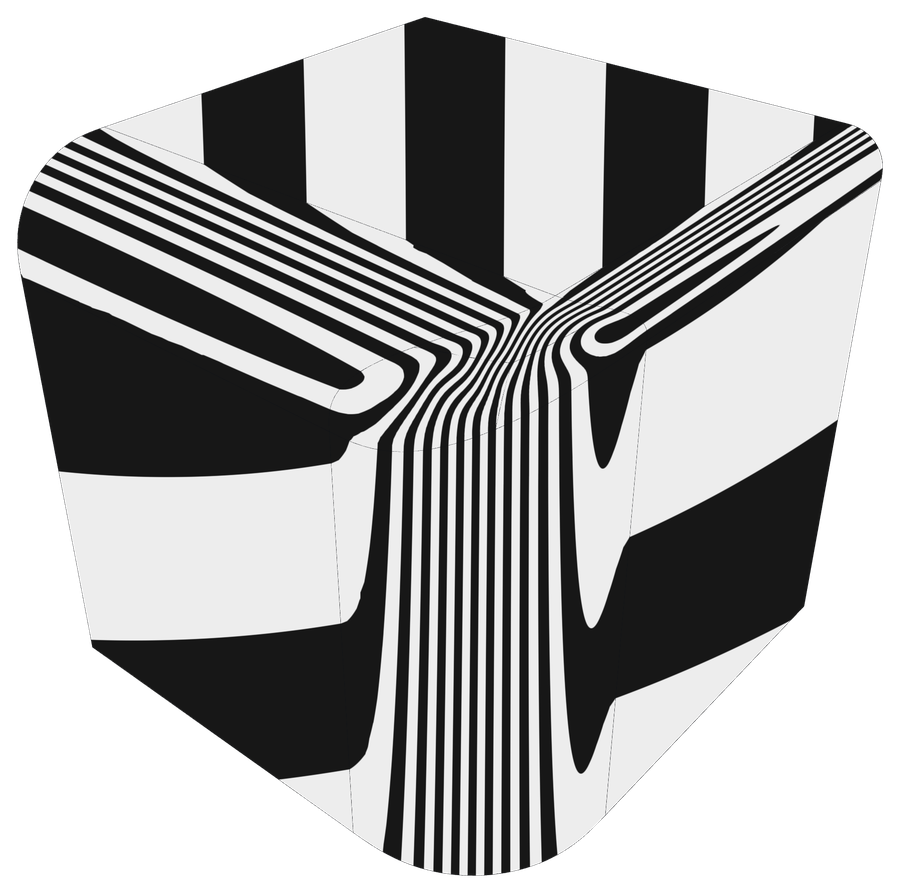
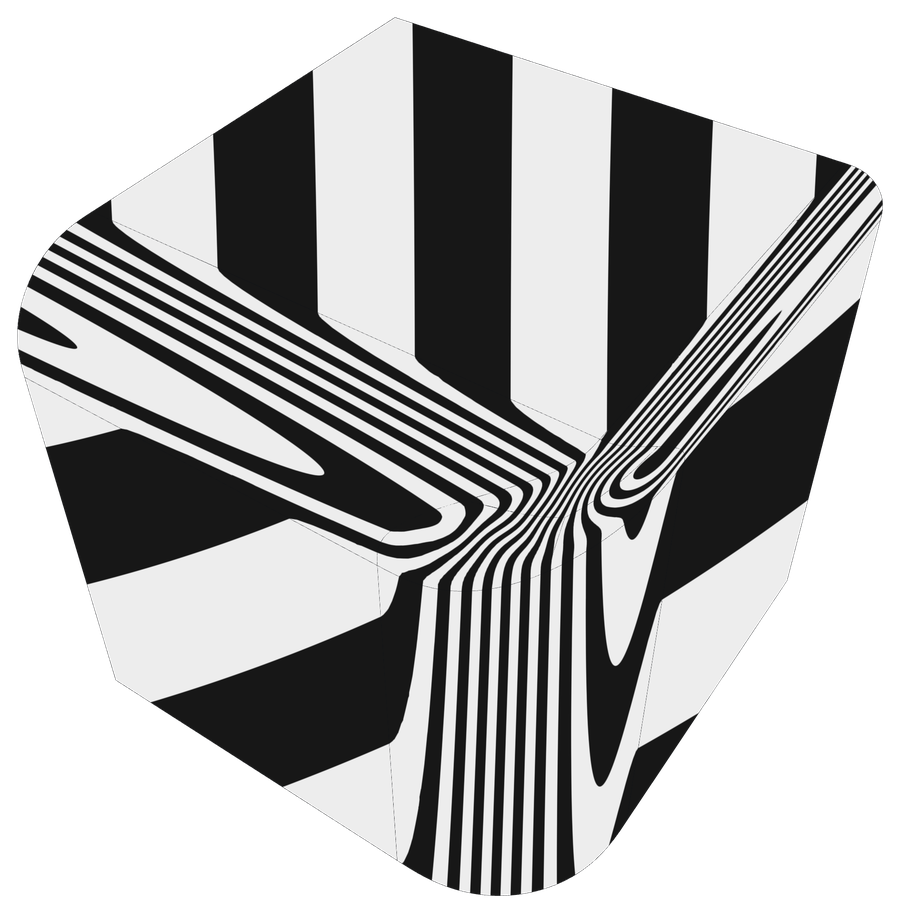
Lander: hero breaks between phrases, fresh renders, social links
Hero. The headline wrapped freely: "for" alone on a line at 320 px and
"things." alone from 414 to 480 px. It breaks only between "A CAD",
"kernel for", "everyone who" and "makes things." now (measured at 23
widths, 300 to 1920 px), and headings site-wide are balanced while
paragraphs avoid a lone last word (text-wrap).

Images. Every gallery and hero image re-rendered from popkern live as
it is today, and the social card regenerated from the new arm. The
fastener kit shows its nut threaded on the bolt (the old render had
the shank running into the nut's side). The renderer
(tools/render-gallery.mjs) now also clears the viewport's own graded
ground and frame, which it had started capturing. The hero caption
reads the arm's current count (1,198 features, 57 parts), image
width/height attributes match the files (three were stale), and the
bolt's alt text says the nut is threaded on.

Social links: GitHub and Discord in every page's nav; GitHub, Discord,
Reddit, Bluesky and X as an icon row in every page's footer; the
homepage's Community column and "Come and break it" card; "Join the
Discord" and "Follow along" in the support page's and launch post's
help lists, with a Discord button beside GitHub at the end of the post;
twitter:site @popkerndev on the pages with a share card. Bluesky and X
icons are their published marks; Reddit is drawn in the site's line
style. Assets re-stamped.

diff --git a/web/lander/index.html b/web/lander/index.html
@@ -8,14 +8,9 @@
 <link rel="canonical" href="https://popkern.dev/">
 
 <!--
-  BEFORE YOU ANNOUNCE - fill these in (search for "#TODO-"):
-    #TODO-x         X / Twitter profile URL
-    #TODO-discord   Discord invite URL
-    #TODO-bluesky   Bluesky (or Mastodon) profile URL
-  Unset links render with a small "?" marker so they are easy to spot. That
-  marker lives in the a[href^="#TODO"] rule in assets/css/site.css and goes
-  away on its own once the hrefs are real.
-  Also update the domain in the canonical and og: tags below if it is not
+  BEFORE YOU ANNOUNCE: unset links ("#TODO-...") render with a small "?"
+  marker so they are easy to spot (the a[href^="#TODO"] rule in
+  assets/css/site.css). Also update the domain in the canonical and og: tags below if it is not
   popkern.dev, and in sitemap.xml, robots.txt and blog/feed.xml.
 -->
 
@@ -25,12 +20,13 @@
 <meta property="og:description" content="A free, open-source CAD kernel in Rust. Try it in your browser, install it in one line, and come break it.">
 <meta property="og:image" content="https://popkern.dev/assets/img/og.png">
 <meta name="twitter:card" content="summary_large_image">
+<meta name="twitter:site" content="@popkerndev">
 
 <link rel="icon" href="assets/img/favicon.svg?v=3c8cd3cc" type="image/svg+xml">
 <link rel="preconnect" href="https://fonts.googleapis.com">
 <link rel="preconnect" href="https://fonts.gstatic.com" crossorigin>
 <link rel="stylesheet" href="https://fonts.googleapis.com/css2?family=Inter:wght@400;500;600;700&family=JetBrains+Mono:wght@400;500&display=swap">
-<link rel="stylesheet" href="assets/css/site.css?v=f511bd3d">
+<link rel="stylesheet" href="assets/css/site.css?v=269cefcb">
 </head>
 <body>
 
@@ -41,6 +37,9 @@
   <symbol id="i-github" viewBox="0 0 24 24"><path d="M12 .5C5.73.5.66 5.58.66 11.85c0 5.01 3.25 9.26 7.75 10.76.57.1.78-.25.78-.55l-.02-1.94c-3.15.69-3.82-1.52-3.82-1.52-.52-1.32-1.26-1.67-1.26-1.67-1.03-.7.08-.69.08-.69 1.14.08 1.74 1.17 1.74 1.17 1.01 1.74 2.66 1.24 3.31.95.1-.74.4-1.24.72-1.53-2.52-.29-5.16-1.26-5.16-5.6 0-1.24.44-2.25 1.17-3.04-.12-.29-.51-1.44.11-3 0 0 .95-.31 3.12 1.16a10.8 10.8 0 0 1 5.68 0c2.17-1.47 3.12-1.16 3.12-1.16.62 1.56.23 2.71.11 3 .73.79 1.17 1.8 1.17 3.04 0 4.35-2.65 5.31-5.17 5.59.41.35.77 1.05.77 2.12l-.01 3.14c0 .3.2.66.79.55 4.5-1.5 7.74-5.75 7.74-10.76C23.34 5.58 18.27.5 12 .5Z"/></symbol>
   <symbol id="i-discord" viewBox="0 0 24 24"><path d="M20.32 4.9A19.8 19.8 0 0 0 15.43 3.4a13.9 13.9 0 0 0-.63 1.28 18.3 18.3 0 0 0-5.6 0c-.19-.44-.44-.98-.64-1.28A19.7 19.7 0 0 0 3.67 4.9C.57 9.52-.27 14.02.15 18.46a19.9 19.9 0 0 0 6 3.04c.49-.66.92-1.36 1.29-2.1-.71-.26-1.38-.59-2.02-.97.17-.13.34-.26.5-.4a14.2 14.2 0 0 0 12.16 0c.16.14.33.27.5.4-.64.38-1.32.71-2.03.98.37.73.8 1.44 1.29 2.09a19.8 19.8 0 0 0 6.01-3.04c.5-5.15-.85-9.6-3.53-13.56ZM8.02 15.73c-1.18 0-2.15-1.09-2.15-2.42s.94-2.42 2.15-2.42c1.2 0 2.17 1.09 2.15 2.42 0 1.33-.95 2.42-2.15 2.42Zm7.95 0c-1.18 0-2.15-1.09-2.15-2.42s.94-2.42 2.15-2.42c1.2 0 2.17 1.09 2.15 2.42 0 1.33-.94 2.42-2.15 2.42Z"/></symbol>
   <symbol id="i-arrow" viewBox="0 0 24 24"><path d="M5 12h13m-5-6 6 6-6 6" fill="none" stroke="currentColor" stroke-width="2" stroke-linecap="round" stroke-linejoin="round"/></symbol>
+  <symbol id="i-bluesky" viewBox="0 0 24 24"><path d="M12 10.8c-1.087-2.114-4.046-6.053-6.798-7.995C2.566.944 1.561 1.266.902 1.565.139 1.908 0 3.08 0 3.768c0 .69.378 5.65.624 6.479.815 2.736 3.713 3.66 6.383 3.364.136-.02.275-.039.415-.056-.138.022-.276.04-.415.056-3.912.58-7.387 2.005-2.83 7.078 5.013 5.19 6.87-1.113 7.823-4.308.953 3.195 2.05 9.271 7.733 4.308 4.267-4.308 1.172-6.498-2.74-7.078a8.741 8.741 0 0 1-.415-.056c.14.017.279.036.415.056 2.67.297 5.568-.628 6.383-3.364.246-.828.624-5.79.624-6.478 0-.69-.139-1.861-.902-2.206-.659-.298-1.664-.62-4.3 1.24C16.046 4.748 13.087 8.687 12 10.8Z"/></symbol>
+  <symbol id="i-x" viewBox="0 0 24 24"><path d="M18.901 1.153h3.68l-8.04 9.19L24 22.846h-7.406l-5.8-7.584-6.638 7.584H.474l8.6-9.83L0 1.154h7.594l5.243 6.932ZM17.61 20.644h2.039L6.486 3.24H4.298Z"/></symbol>
+  <symbol id="i-reddit" viewBox="0 0 24 24"><g fill="none" stroke="currentColor" stroke-width="1.8" stroke-linecap="round" stroke-linejoin="round"><ellipse cx="12" cy="14.5" rx="8.5" ry="6"/><path d="M12 8.5l1.3-5.3 4.2 1"/><circle cx="19" cy="4.4" r="1.5"/><circle cx="3.9" cy="10.4" r="1.7"/><circle cx="20.1" cy="10.4" r="1.7"/><path d="M8.8 17.2c2 1.3 4.4 1.3 6.4 0"/></g><circle cx="9" cy="13.6" r="1.25"/><circle cx="15" cy="13.6" r="1.25"/></symbol>
 </svg>
 
 <!-- ===================== Nav ===================== -->
@@ -60,6 +59,7 @@
       <a href="blog/" data-wide>Blog</a>
       <span class="nav-icons">
         <a class="icon-link" href="https://github.com/popkern-dev/popkern" aria-label="popkern on GitHub"><svg><use href="#i-github"/></svg></a>
+        <a class="icon-link" href="https://discord.gg/38p9xBBwff" aria-label="popkern on Discord"><svg><use href="#i-discord"/></svg></a>
       </span>
       <a class="nav-cta" href="live/">Try it now!</a>
     </nav>
@@ -72,7 +72,7 @@
 <section class="hero">
   <div class="container hero-grid">
     <div>
-      <h1>A CAD kernel for<br><span class="grad">everyone who makes things.</span></h1>
+      <h1>A CAD <span class="nowrap">kernel for</span><br><span class="grad"><span class="nowrap">everyone who</span> <span class="nowrap">makes things.</span></span></h1>
 
       <p class="hero-sub">
         popkern is the geometry engine that sits underneath CAD: the part that
@@ -94,9 +94,9 @@
     </div>
 
     <figure class="hero-art">
-      <img src="assets/img/six-axis-arm.png?v=592ca7e6" width="1400" height="1200"
+      <img src="assets/img/six-axis-arm.png?v=bf3acaca" width="1400" height="1200"
            alt="A six-axis robot arm: a white base and shoulder, grey tube links, finned cycloidal joint housings at every axis, and an orange-jawed gripper on the tool flange.">
-      <figcaption>A six-axis arm in <a href="live/">popkern live</a>: 1,326 features, 57 parts</figcaption>
+      <figcaption>A six-axis arm in <a href="live/">popkern live</a>: 1,198 features, 57 parts</figcaption>
     </figure>
   </div>
 </section>
@@ -117,17 +117,17 @@
 
     <div class="gallery">
       <figure class="shot">
-        <div class="shot-img"><img src="assets/img/cycloidal-joints.png?v=12725cf0" alt="Three cycloidal joint modules of decreasing size, each a finned grey housing with a blue output flange." loading="lazy" width="900" height="668"></div>
+        <div class="shot-img"><img src="assets/img/cycloidal-joints.png?v=1e17d38e" alt="Three cycloidal joint modules of decreasing size, each a finned grey housing with a blue output flange." loading="lazy" width="900" height="668"></div>
         <figcaption><b>Cycloidal joints</b>The arm's three joint sizes, each a motor driving a cycloidal reducer: discs, ring pins, output pins and a cross-roller bearing.</figcaption>
       </figure>
 
       <figure class="shot">
-        <div class="shot-img"><img src="assets/img/planetary-gearbox.png?v=d53933f9" alt="A planetary gear set seen from above: an orange ring gear, green planets, a blue sun and a purple carrier." loading="lazy" width="900" height="784"></div>
+        <div class="shot-img"><img src="assets/img/planetary-gearbox.png?v=ab55b206" alt="A planetary gear set seen from above: an orange ring gear, green planets, a blue sun and a purple carrier." loading="lazy" width="900" height="784"></div>
         <figcaption><b>Planetary gearbox</b>A 4:1 set as an assembly, one color per part. Every involute tooth is computed in the script.</figcaption>
       </figure>
 
       <figure class="shot">
-        <div class="shot-img"><img src="assets/img/fastener-kit.png?v=a7d31b74" alt="A hex bolt and its nut, a socket-head cap screw and a countersunk screw, each in its own color, all with modeled threads." loading="lazy" width="900" height="762"></div>
+        <div class="shot-img"><img src="assets/img/fastener-kit.png?v=4bf35148" alt="A hex bolt with its nut threaded on, a socket-head cap screw and a countersunk screw, each in its own color, all with modeled threads." loading="lazy" width="900" height="917"></div>
         <figcaption><b>Real threads</b>An M6 bolt and nut, a cap screw and a countersunk screw: modeled ISO threads, not textures.</figcaption>
       </figure>
 
@@ -137,12 +137,12 @@
       </figure>
 
       <figure class="shot">
-        <div class="shot-img"><img src="assets/img/zebra-corner.png?v=65353874" alt="A rounded block corner in black and white zebra stripes that bend smoothly through the corner." loading="lazy" width="900" height="893"></div>
+        <div class="shot-img"><img src="assets/img/zebra-corner.png?v=6e9fbc7c" alt="A rounded block corner in black and white zebra stripes that bend smoothly through the corner." loading="lazy" width="900" height="913"></div>
         <figcaption><b>Smooth where rounds meet</b>Three different radii closing on one corner, in zebra view: the stripes flow through unbroken, certified curvature-continuous.</figcaption>
       </figure>
 
       <figure class="shot">
-        <div class="shot-img"><img src="assets/img/coil-springs.png?v=6e11e4bc" alt="Three coil springs: a compression spring, a tapered spring and a left-hand spring." loading="lazy" width="900" height="1053"></div>
+        <div class="shot-img"><img src="assets/img/coil-springs.png?v=fb557290" alt="Three coil springs: a compression spring, a tapered spring and a left-hand spring." loading="lazy" width="900" height="1054"></div>
         <figcaption><b>Three springs, one verb</b>Compression, tapered and left-hand springs, each swept along an exact helix.</figcaption>
       </figure>
     </div>
@@ -253,7 +253,7 @@ m</code></pre>
       <a class="btn btn-primary" href="https://github.com/popkern-dev/popkern">
         <svg><use href="#i-github"/></svg> popkern on GitHub
       </a>
-      <a class="btn btn-ghost" href="#TODO-discord">
+      <a class="btn btn-ghost" href="https://discord.gg/38p9xBBwff">
         <svg><use href="#i-discord"/></svg> Join the Discord
       </a>
     </div>
@@ -275,6 +275,7 @@ m</code></pre>
           popkern
         </a>
         <p>A free, open CAD kernel in Rust, for everyone who makes things.</p>
+        <span class="footer-social"><a class="icon-link" href="https://github.com/popkern-dev/popkern" aria-label="popkern on GitHub"><svg><use href="#i-github"/></svg></a><a class="icon-link" href="https://discord.gg/38p9xBBwff" aria-label="popkern on Discord"><svg><use href="#i-discord"/></svg></a><a class="icon-link" href="https://www.reddit.com/user/popkerndev" aria-label="popkern on Reddit"><svg><use href="#i-reddit"/></svg></a><a class="icon-link" href="https://bsky.app/profile/popkerndev.bsky.social" aria-label="popkern on Bluesky"><svg><use href="#i-bluesky"/></svg></a><a class="icon-link" href="https://x.com/popkerndev" aria-label="popkern on X"><svg><use href="#i-x"/></svg></a></span>
       </div>
 
       <div>
@@ -301,9 +302,10 @@ m</code></pre>
         <h4>Community</h4>
         <ul>
           <li><a href="https://github.com/popkern-dev/popkern/issues">Issues</a></li>
-          <li><a href="#TODO-discord">Discord</a></li>
-          <li><a href="#TODO-bluesky">Bluesky</a></li>
-          <li><a href="#TODO-x">X / Twitter</a></li>
+          <li><a href="https://discord.gg/38p9xBBwff">Discord</a></li>
+          <li><a href="https://www.reddit.com/user/popkerndev">Reddit</a></li>
+          <li><a href="https://bsky.app/profile/popkerndev.bsky.social">Bluesky</a></li>
+          <li><a href="https://x.com/popkerndev">X / Twitter</a></li>
         </ul>
       </div>
     </div>

diff --git a/web/lander/blog/announcing-popkern.html b/web/lander/blog/announcing-popkern.html
@@ -11,16 +11,21 @@
 <meta property="og:description" content="A boundary-representation CAD kernel in Rust, written entirely by agents, and free for everyone.">
 <meta property="og:image" content="https://popkern.dev/assets/img/og.png">
 <meta name="twitter:card" content="summary_large_image">
+<meta name="twitter:site" content="@popkerndev">
 <link rel="preconnect" href="https://fonts.googleapis.com">
 <link rel="preconnect" href="https://fonts.gstatic.com" crossorigin>
 <link rel="stylesheet" href="https://fonts.googleapis.com/css2?family=Inter:wght@400;500;600;700&family=JetBrains+Mono:wght@400;500&display=swap">
-<link rel="stylesheet" href="../assets/css/site.css?v=f511bd3d">
+<link rel="stylesheet" href="../assets/css/site.css?v=269cefcb">
 </head>
 <body>
 <a class="skip" href="#main">Skip to content</a>
 
 <svg width="0" height="0" style="position:absolute" aria-hidden="true" focusable="false">
   <symbol id="i-github" viewBox="0 0 24 24"><path d="M12 .5C5.73.5.66 5.58.66 11.85c0 5.01 3.25 9.26 7.75 10.76.57.1.78-.25.78-.55l-.02-1.94c-3.15.69-3.82-1.52-3.82-1.52-.52-1.32-1.26-1.67-1.26-1.67-1.03-.7.08-.69.08-.69 1.14.08 1.74 1.17 1.74 1.17 1.01 1.74 2.66 1.24 3.31.95.1-.74.4-1.24.72-1.53-2.52-.29-5.16-1.26-5.16-5.6 0-1.24.44-2.25 1.17-3.04-.12-.29-.51-1.44.11-3 0 0 .95-.31 3.12 1.16a10.8 10.8 0 0 1 5.68 0c2.17-1.47 3.12-1.16 3.12-1.16.62 1.56.23 2.71.11 3 .73.79 1.17 1.8 1.17 3.04 0 4.35-2.65 5.31-5.17 5.59.41.35.77 1.05.77 2.12l-.01 3.14c0 .3.2.66.79.55 4.5-1.5 7.74-5.75 7.74-10.76C23.34 5.58 18.27.5 12 .5Z"/></symbol>
+  <symbol id="i-discord" viewBox="0 0 24 24"><path d="M20.32 4.9A19.8 19.8 0 0 0 15.43 3.4a13.9 13.9 0 0 0-.63 1.28 18.3 18.3 0 0 0-5.6 0c-.19-.44-.44-.98-.64-1.28A19.7 19.7 0 0 0 3.67 4.9C.57 9.52-.27 14.02.15 18.46a19.9 19.9 0 0 0 6 3.04c.49-.66.92-1.36 1.29-2.1-.71-.26-1.38-.59-2.02-.97.17-.13.34-.26.5-.4a14.2 14.2 0 0 0 12.16 0c.16.14.33.27.5.4-.64.38-1.32.71-2.03.98.37.73.8 1.44 1.29 2.09a19.8 19.8 0 0 0 6.01-3.04c.5-5.15-.85-9.6-3.53-13.56ZM8.02 15.73c-1.18 0-2.15-1.09-2.15-2.42s.94-2.42 2.15-2.42c1.2 0 2.17 1.09 2.15 2.42 0 1.33-.95 2.42-2.15 2.42Zm7.95 0c-1.18 0-2.15-1.09-2.15-2.42s.94-2.42 2.15-2.42c1.2 0 2.17 1.09 2.15 2.42 0 1.33-.94 2.42-2.15 2.42Z"/></symbol>
+  <symbol id="i-bluesky" viewBox="0 0 24 24"><path d="M12 10.8c-1.087-2.114-4.046-6.053-6.798-7.995C2.566.944 1.561 1.266.902 1.565.139 1.908 0 3.08 0 3.768c0 .69.378 5.65.624 6.479.815 2.736 3.713 3.66 6.383 3.364.136-.02.275-.039.415-.056-.138.022-.276.04-.415.056-3.912.58-7.387 2.005-2.83 7.078 5.013 5.19 6.87-1.113 7.823-4.308.953 3.195 2.05 9.271 7.733 4.308 4.267-4.308 1.172-6.498-2.74-7.078a8.741 8.741 0 0 1-.415-.056c.14.017.279.036.415.056 2.67.297 5.568-.628 6.383-3.364.246-.828.624-5.79.624-6.478 0-.69-.139-1.861-.902-2.206-.659-.298-1.664-.62-4.3 1.24C16.046 4.748 13.087 8.687 12 10.8Z"/></symbol>
+  <symbol id="i-x" viewBox="0 0 24 24"><path d="M18.901 1.153h3.68l-8.04 9.19L24 22.846h-7.406l-5.8-7.584-6.638 7.584H.474l8.6-9.83L0 1.154h7.594l5.243 6.932ZM17.61 20.644h2.039L6.486 3.24H4.298Z"/></symbol>
+  <symbol id="i-reddit" viewBox="0 0 24 24"><g fill="none" stroke="currentColor" stroke-width="1.8" stroke-linecap="round" stroke-linejoin="round"><ellipse cx="12" cy="14.5" rx="8.5" ry="6"/><path d="M12 8.5l1.3-5.3 4.2 1"/><circle cx="19" cy="4.4" r="1.5"/><circle cx="3.9" cy="10.4" r="1.7"/><circle cx="20.1" cy="10.4" r="1.7"/><path d="M8.8 17.2c2 1.3 4.4 1.3 6.4 0"/></g><circle cx="9" cy="13.6" r="1.25"/><circle cx="15" cy="13.6" r="1.25"/></symbol>
 </svg>
 
 <header class="nav">
@@ -38,6 +43,7 @@
       <a href="./" data-wide>Blog</a>
       <span class="nav-icons">
         <a class="icon-link" href="https://github.com/popkern-dev/popkern" aria-label="popkern on GitHub"><svg><use href="#i-github"/></svg></a>
+        <a class="icon-link" href="https://discord.gg/38p9xBBwff" aria-label="popkern on Discord"><svg><use href="#i-discord"/></svg></a>
       </span>
       <a class="nav-cta" href="../live/">Try it now!</a>
     </nav>
@@ -64,6 +70,8 @@
             <li><b><a href="../live/">Use it.</a></b> Build a part, then tell people it exists.</li>
             <li><b>Break it.</b> If popkern can't do it, we'll fix it!</li>
             <li><b><a href="../support/">Chip in.</a></b> Help me cover my costs.</li>
+            <li><b><a href="https://discord.gg/38p9xBBwff">Join the Discord.</a></b> Come say hi and show us what you build.</li>
+            <li><b>Follow along.</b> On <a href="https://bsky.app/profile/popkerndev.bsky.social">Bluesky</a>, <a href="https://x.com/popkerndev">X</a> and <a href="https://www.reddit.com/user/popkerndev">Reddit</a>.</li>
             <li><b>Pass it on.</b> To anyone who makes things.</li>
           </ul>
         </section>
@@ -324,6 +332,10 @@
             <svg style="width:17px;height:17px;fill:currentColor"><use href="#i-github"/></svg>
             popkern on GitHub
           </a>
+          <a class="btn btn-ghost" href="https://discord.gg/38p9xBBwff">
+            <svg style="width:17px;height:17px;fill:currentColor"><use href="#i-discord"/></svg>
+            Join the Discord
+          </a>
         </p>
       </div>
     </article>
@@ -335,6 +347,7 @@
   <div class="container">
     <div class="footer-bottom" style="margin-top:0;border-top:0;padding-top:0">
       <span>© <span data-year>2026</span> popkern contributors · AGPL-3.0-only with a user-script exception</span>
+      <span class="footer-social"><a class="icon-link" href="https://github.com/popkern-dev/popkern" aria-label="popkern on GitHub"><svg><use href="#i-github"/></svg></a><a class="icon-link" href="https://discord.gg/38p9xBBwff" aria-label="popkern on Discord"><svg><use href="#i-discord"/></svg></a><a class="icon-link" href="https://www.reddit.com/user/popkerndev" aria-label="popkern on Reddit"><svg><use href="#i-reddit"/></svg></a><a class="icon-link" href="https://bsky.app/profile/popkerndev.bsky.social" aria-label="popkern on Bluesky"><svg><use href="#i-bluesky"/></svg></a><a class="icon-link" href="https://x.com/popkerndev" aria-label="popkern on X"><svg><use href="#i-x"/></svg></a></span>
       <span class="spacer"></span>
       <a href="../">popkern.dev</a>
     </div>

diff --git a/web/lander/support/index.html b/web/lander/support/index.html
@@ -9,7 +9,7 @@
 <link rel="preconnect" href="https://fonts.googleapis.com">
 <link rel="preconnect" href="https://fonts.gstatic.com" crossorigin>
 <link rel="stylesheet" href="https://fonts.googleapis.com/css2?family=Inter:wght@400;500;600;700&family=JetBrains+Mono:wght@400;500&display=swap">
-<link rel="stylesheet" href="../assets/css/site.css?v=f511bd3d">
+<link rel="stylesheet" href="../assets/css/site.css?v=269cefcb">
 </head>
 <body>
 <a class="skip" href="#main">Skip to content</a>
@@ -17,6 +17,10 @@
 <svg width="0" height="0" style="position:absolute" aria-hidden="true" focusable="false">
   <symbol id="i-github" viewBox="0 0 24 24"><path d="M12 .5C5.73.5.66 5.58.66 11.85c0 5.01 3.25 9.26 7.75 10.76.57.1.78-.25.78-.55l-.02-1.94c-3.15.69-3.82-1.52-3.82-1.52-.52-1.32-1.26-1.67-1.26-1.67-1.03-.7.08-.69.08-.69 1.14.08 1.74 1.17 1.74 1.17 1.01 1.74 2.66 1.24 3.31.95.1-.74.4-1.24.72-1.53-2.52-.29-5.16-1.26-5.16-5.6 0-1.24.44-2.25 1.17-3.04-.12-.29-.51-1.44.11-3 0 0 .95-.31 3.12 1.16a10.8 10.8 0 0 1 5.68 0c2.17-1.47 3.12-1.16 3.12-1.16.62 1.56.23 2.71.11 3 .73.79 1.17 1.8 1.17 3.04 0 4.35-2.65 5.31-5.17 5.59.41.35.77 1.05.77 2.12l-.01 3.14c0 .3.2.66.79.55 4.5-1.5 7.74-5.75 7.74-10.76C23.34 5.58 18.27.5 12 .5Z"/></symbol>
   <symbol id="i-arrow" viewBox="0 0 24 24"><path d="M5 12h13m-5-6 6 6-6 6" fill="none" stroke="currentColor" stroke-width="2" stroke-linecap="round" stroke-linejoin="round"/></symbol>
+  <symbol id="i-discord" viewBox="0 0 24 24"><path d="M20.32 4.9A19.8 19.8 0 0 0 15.43 3.4a13.9 13.9 0 0 0-.63 1.28 18.3 18.3 0 0 0-5.6 0c-.19-.44-.44-.98-.64-1.28A19.7 19.7 0 0 0 3.67 4.9C.57 9.52-.27 14.02.15 18.46a19.9 19.9 0 0 0 6 3.04c.49-.66.92-1.36 1.29-2.1-.71-.26-1.38-.59-2.02-.97.17-.13.34-.26.5-.4a14.2 14.2 0 0 0 12.16 0c.16.14.33.27.5.4-.64.38-1.32.71-2.03.98.37.73.8 1.44 1.29 2.09a19.8 19.8 0 0 0 6.01-3.04c.5-5.15-.85-9.6-3.53-13.56ZM8.02 15.73c-1.18 0-2.15-1.09-2.15-2.42s.94-2.42 2.15-2.42c1.2 0 2.17 1.09 2.15 2.42 0 1.33-.95 2.42-2.15 2.42Zm7.95 0c-1.18 0-2.15-1.09-2.15-2.42s.94-2.42 2.15-2.42c1.2 0 2.17 1.09 2.15 2.42 0 1.33-.94 2.42-2.15 2.42Z"/></symbol>
+  <symbol id="i-bluesky" viewBox="0 0 24 24"><path d="M12 10.8c-1.087-2.114-4.046-6.053-6.798-7.995C2.566.944 1.561 1.266.902 1.565.139 1.908 0 3.08 0 3.768c0 .69.378 5.65.624 6.479.815 2.736 3.713 3.66 6.383 3.364.136-.02.275-.039.415-.056-.138.022-.276.04-.415.056-3.912.58-7.387 2.005-2.83 7.078 5.013 5.19 6.87-1.113 7.823-4.308.953 3.195 2.05 9.271 7.733 4.308 4.267-4.308 1.172-6.498-2.74-7.078a8.741 8.741 0 0 1-.415-.056c.14.017.279.036.415.056 2.67.297 5.568-.628 6.383-3.364.246-.828.624-5.79.624-6.478 0-.69-.139-1.861-.902-2.206-.659-.298-1.664-.62-4.3 1.24C16.046 4.748 13.087 8.687 12 10.8Z"/></symbol>
+  <symbol id="i-x" viewBox="0 0 24 24"><path d="M18.901 1.153h3.68l-8.04 9.19L24 22.846h-7.406l-5.8-7.584-6.638 7.584H.474l8.6-9.83L0 1.154h7.594l5.243 6.932ZM17.61 20.644h2.039L6.486 3.24H4.298Z"/></symbol>
+  <symbol id="i-reddit" viewBox="0 0 24 24"><g fill="none" stroke="currentColor" stroke-width="1.8" stroke-linecap="round" stroke-linejoin="round"><ellipse cx="12" cy="14.5" rx="8.5" ry="6"/><path d="M12 8.5l1.3-5.3 4.2 1"/><circle cx="19" cy="4.4" r="1.5"/><circle cx="3.9" cy="10.4" r="1.7"/><circle cx="20.1" cy="10.4" r="1.7"/><path d="M8.8 17.2c2 1.3 4.4 1.3 6.4 0"/></g><circle cx="9" cy="13.6" r="1.25"/><circle cx="15" cy="13.6" r="1.25"/></symbol>
 </svg>
 
 <header class="nav">
@@ -34,6 +38,7 @@
       <a href="../blog/" data-wide>Blog</a>
       <span class="nav-icons">
         <a class="icon-link" href="https://github.com/popkern-dev/popkern" aria-label="popkern on GitHub"><svg><use href="#i-github"/></svg></a>
+        <a class="icon-link" href="https://discord.gg/38p9xBBwff" aria-label="popkern on Discord"><svg><use href="#i-discord"/></svg></a>
       </span>
       <a class="nav-cta" href="../live/">Try it now!</a>
     </nav>
@@ -82,6 +87,8 @@
           <li><b><a href="https://github.com/popkern-dev/popkern">Star the repo.</a></b> It helps more people find popkern.</li>
           <li><b><a href="../live/">Use it.</a></b> Build a part, then tell people it exists.</li>
           <li><b>Break it.</b> If popkern can't build your part, <a href="https://github.com/popkern-dev/popkern/issues">open an issue</a> and it becomes a test case.</li>
+          <li><b><a href="https://discord.gg/38p9xBBwff">Join the Discord.</a></b> Ask questions, share what you build, and talk shop.</li>
+          <li><b>Follow along.</b> On <a href="https://bsky.app/profile/popkerndev.bsky.social">Bluesky</a>, <a href="https://x.com/popkerndev">X</a> and <a href="https://www.reddit.com/user/popkerndev">Reddit</a>.</li>
           <li><b>Pass it on.</b> To anyone who makes things.</li>
         </ul>
         <p>Thank you, truly. &hearts;</p>
@@ -95,6 +102,7 @@
   <div class="container">
     <div class="footer-bottom" style="margin-top:0;border-top:0;padding-top:0">
       <span>© <span data-year>2026</span> popkern contributors · AGPL-3.0-only with a user-script exception</span>
+      <span class="footer-social"><a class="icon-link" href="https://github.com/popkern-dev/popkern" aria-label="popkern on GitHub"><svg><use href="#i-github"/></svg></a><a class="icon-link" href="https://discord.gg/38p9xBBwff" aria-label="popkern on Discord"><svg><use href="#i-discord"/></svg></a><a class="icon-link" href="https://www.reddit.com/user/popkerndev" aria-label="popkern on Reddit"><svg><use href="#i-reddit"/></svg></a><a class="icon-link" href="https://bsky.app/profile/popkerndev.bsky.social" aria-label="popkern on Bluesky"><svg><use href="#i-bluesky"/></svg></a><a class="icon-link" href="https://x.com/popkerndev" aria-label="popkern on X"><svg><use href="#i-x"/></svg></a></span>
       <span class="spacer"></span>
       <a href="../">popkern.dev</a>
     </div>

diff --git a/web/lander/install/index.html b/web/lander/install/index.html
@@ -9,7 +9,7 @@
 <link rel="preconnect" href="https://fonts.googleapis.com">
 <link rel="preconnect" href="https://fonts.gstatic.com" crossorigin>
 <link rel="stylesheet" href="https://fonts.googleapis.com/css2?family=Inter:wght@400;500;600;700&family=JetBrains+Mono:wght@400;500&display=swap">
-<link rel="stylesheet" href="../assets/css/site.css?v=f511bd3d">
+<link rel="stylesheet" href="../assets/css/site.css?v=269cefcb">
 </head>
 <body>
 <a class="skip" href="#main">Skip to content</a>
@@ -17,6 +17,10 @@
 <svg width="0" height="0" style="position:absolute" aria-hidden="true" focusable="false">
   <symbol id="i-github" viewBox="0 0 24 24"><path d="M12 .5C5.73.5.66 5.58.66 11.85c0 5.01 3.25 9.26 7.75 10.76.57.1.78-.25.78-.55l-.02-1.94c-3.15.69-3.82-1.52-3.82-1.52-.52-1.32-1.26-1.67-1.26-1.67-1.03-.7.08-.69.08-.69 1.14.08 1.74 1.17 1.74 1.17 1.01 1.74 2.66 1.24 3.31.95.1-.74.4-1.24.72-1.53-2.52-.29-5.16-1.26-5.16-5.6 0-1.24.44-2.25 1.17-3.04-.12-.29-.51-1.44.11-3 0 0 .95-.31 3.12 1.16a10.8 10.8 0 0 1 5.68 0c2.17-1.47 3.12-1.16 3.12-1.16.62 1.56.23 2.71.11 3 .73.79 1.17 1.8 1.17 3.04 0 4.35-2.65 5.31-5.17 5.59.41.35.77 1.05.77 2.12l-.01 3.14c0 .3.2.66.79.55 4.5-1.5 7.74-5.75 7.74-10.76C23.34 5.58 18.27.5 12 .5Z"/></symbol>
   <symbol id="i-arrow" viewBox="0 0 24 24"><path d="M5 12h13m-5-6 6 6-6 6" fill="none" stroke="currentColor" stroke-width="2" stroke-linecap="round" stroke-linejoin="round"/></symbol>
+  <symbol id="i-discord" viewBox="0 0 24 24"><path d="M20.32 4.9A19.8 19.8 0 0 0 15.43 3.4a13.9 13.9 0 0 0-.63 1.28 18.3 18.3 0 0 0-5.6 0c-.19-.44-.44-.98-.64-1.28A19.7 19.7 0 0 0 3.67 4.9C.57 9.52-.27 14.02.15 18.46a19.9 19.9 0 0 0 6 3.04c.49-.66.92-1.36 1.29-2.1-.71-.26-1.38-.59-2.02-.97.17-.13.34-.26.5-.4a14.2 14.2 0 0 0 12.16 0c.16.14.33.27.5.4-.64.38-1.32.71-2.03.98.37.73.8 1.44 1.29 2.09a19.8 19.8 0 0 0 6.01-3.04c.5-5.15-.85-9.6-3.53-13.56ZM8.02 15.73c-1.18 0-2.15-1.09-2.15-2.42s.94-2.42 2.15-2.42c1.2 0 2.17 1.09 2.15 2.42 0 1.33-.95 2.42-2.15 2.42Zm7.95 0c-1.18 0-2.15-1.09-2.15-2.42s.94-2.42 2.15-2.42c1.2 0 2.17 1.09 2.15 2.42 0 1.33-.94 2.42-2.15 2.42Z"/></symbol>
+  <symbol id="i-bluesky" viewBox="0 0 24 24"><path d="M12 10.8c-1.087-2.114-4.046-6.053-6.798-7.995C2.566.944 1.561 1.266.902 1.565.139 1.908 0 3.08 0 3.768c0 .69.378 5.65.624 6.479.815 2.736 3.713 3.66 6.383 3.364.136-.02.275-.039.415-.056-.138.022-.276.04-.415.056-3.912.58-7.387 2.005-2.83 7.078 5.013 5.19 6.87-1.113 7.823-4.308.953 3.195 2.05 9.271 7.733 4.308 4.267-4.308 1.172-6.498-2.74-7.078a8.741 8.741 0 0 1-.415-.056c.14.017.279.036.415.056 2.67.297 5.568-.628 6.383-3.364.246-.828.624-5.79.624-6.478 0-.69-.139-1.861-.902-2.206-.659-.298-1.664-.62-4.3 1.24C16.046 4.748 13.087 8.687 12 10.8Z"/></symbol>
+  <symbol id="i-x" viewBox="0 0 24 24"><path d="M18.901 1.153h3.68l-8.04 9.19L24 22.846h-7.406l-5.8-7.584-6.638 7.584H.474l8.6-9.83L0 1.154h7.594l5.243 6.932ZM17.61 20.644h2.039L6.486 3.24H4.298Z"/></symbol>
+  <symbol id="i-reddit" viewBox="0 0 24 24"><g fill="none" stroke="currentColor" stroke-width="1.8" stroke-linecap="round" stroke-linejoin="round"><ellipse cx="12" cy="14.5" rx="8.5" ry="6"/><path d="M12 8.5l1.3-5.3 4.2 1"/><circle cx="19" cy="4.4" r="1.5"/><circle cx="3.9" cy="10.4" r="1.7"/><circle cx="20.1" cy="10.4" r="1.7"/><path d="M8.8 17.2c2 1.3 4.4 1.3 6.4 0"/></g><circle cx="9" cy="13.6" r="1.25"/><circle cx="15" cy="13.6" r="1.25"/></symbol>
 </svg>
 
 <header class="nav">
@@ -34,6 +38,7 @@
       <a href="../blog/" data-wide>Blog</a>
       <span class="nav-icons">
         <a class="icon-link" href="https://github.com/popkern-dev/popkern" aria-label="popkern on GitHub"><svg><use href="#i-github"/></svg></a>
+        <a class="icon-link" href="https://discord.gg/38p9xBBwff" aria-label="popkern on Discord"><svg><use href="#i-discord"/></svg></a>
       </span>
       <a class="nav-cta" href="../live/">Try it now!</a>
     </nav>
@@ -132,6 +137,7 @@ popkern serve my-parts</code></pre>
   <div class="container">
     <div class="footer-bottom" style="margin-top:0;border-top:0;padding-top:0">
       <span>© <span data-year>2026</span> popkern contributors · AGPL-3.0-only with a user-script exception</span>
+      <span class="footer-social"><a class="icon-link" href="https://github.com/popkern-dev/popkern" aria-label="popkern on GitHub"><svg><use href="#i-github"/></svg></a><a class="icon-link" href="https://discord.gg/38p9xBBwff" aria-label="popkern on Discord"><svg><use href="#i-discord"/></svg></a><a class="icon-link" href="https://www.reddit.com/user/popkerndev" aria-label="popkern on Reddit"><svg><use href="#i-reddit"/></svg></a><a class="icon-link" href="https://bsky.app/profile/popkerndev.bsky.social" aria-label="popkern on Bluesky"><svg><use href="#i-bluesky"/></svg></a><a class="icon-link" href="https://x.com/popkerndev" aria-label="popkern on X"><svg><use href="#i-x"/></svg></a></span>
       <span class="spacer"></span>
       <a href="../">popkern.dev</a>
     </div>

diff --git a/web/lander/blog/index.html b/web/lander/blog/index.html
@@ -10,13 +10,17 @@
 <link rel="preconnect" href="https://fonts.googleapis.com">
 <link rel="preconnect" href="https://fonts.gstatic.com" crossorigin>
 <link rel="stylesheet" href="https://fonts.googleapis.com/css2?family=Inter:wght@400;500;600;700&family=JetBrains+Mono:wght@400;500&display=swap">
-<link rel="stylesheet" href="../assets/css/site.css?v=f511bd3d">
+<link rel="stylesheet" href="../assets/css/site.css?v=269cefcb">
 </head>
 <body>
 <a class="skip" href="#main">Skip to content</a>
 
 <svg width="0" height="0" style="position:absolute" aria-hidden="true" focusable="false">
   <symbol id="i-github" viewBox="0 0 24 24"><path d="M12 .5C5.73.5.66 5.58.66 11.85c0 5.01 3.25 9.26 7.75 10.76.57.1.78-.25.78-.55l-.02-1.94c-3.15.69-3.82-1.52-3.82-1.52-.52-1.32-1.26-1.67-1.26-1.67-1.03-.7.08-.69.08-.69 1.14.08 1.74 1.17 1.74 1.17 1.01 1.74 2.66 1.24 3.31.95.1-.74.4-1.24.72-1.53-2.52-.29-5.16-1.26-5.16-5.6 0-1.24.44-2.25 1.17-3.04-.12-.29-.51-1.44.11-3 0 0 .95-.31 3.12 1.16a10.8 10.8 0 0 1 5.68 0c2.17-1.47 3.12-1.16 3.12-1.16.62 1.56.23 2.71.11 3 .73.79 1.17 1.8 1.17 3.04 0 4.35-2.65 5.31-5.17 5.59.41.35.77 1.05.77 2.12l-.01 3.14c0 .3.2.66.79.55 4.5-1.5 7.74-5.75 7.74-10.76C23.34 5.58 18.27.5 12 .5Z"/></symbol>
+  <symbol id="i-discord" viewBox="0 0 24 24"><path d="M20.32 4.9A19.8 19.8 0 0 0 15.43 3.4a13.9 13.9 0 0 0-.63 1.28 18.3 18.3 0 0 0-5.6 0c-.19-.44-.44-.98-.64-1.28A19.7 19.7 0 0 0 3.67 4.9C.57 9.52-.27 14.02.15 18.46a19.9 19.9 0 0 0 6 3.04c.49-.66.92-1.36 1.29-2.1-.71-.26-1.38-.59-2.02-.97.17-.13.34-.26.5-.4a14.2 14.2 0 0 0 12.16 0c.16.14.33.27.5.4-.64.38-1.32.71-2.03.98.37.73.8 1.44 1.29 2.09a19.8 19.8 0 0 0 6.01-3.04c.5-5.15-.85-9.6-3.53-13.56ZM8.02 15.73c-1.18 0-2.15-1.09-2.15-2.42s.94-2.42 2.15-2.42c1.2 0 2.17 1.09 2.15 2.42 0 1.33-.95 2.42-2.15 2.42Zm7.95 0c-1.18 0-2.15-1.09-2.15-2.42s.94-2.42 2.15-2.42c1.2 0 2.17 1.09 2.15 2.42 0 1.33-.94 2.42-2.15 2.42Z"/></symbol>
+  <symbol id="i-bluesky" viewBox="0 0 24 24"><path d="M12 10.8c-1.087-2.114-4.046-6.053-6.798-7.995C2.566.944 1.561 1.266.902 1.565.139 1.908 0 3.08 0 3.768c0 .69.378 5.65.624 6.479.815 2.736 3.713 3.66 6.383 3.364.136-.02.275-.039.415-.056-.138.022-.276.04-.415.056-3.912.58-7.387 2.005-2.83 7.078 5.013 5.19 6.87-1.113 7.823-4.308.953 3.195 2.05 9.271 7.733 4.308 4.267-4.308 1.172-6.498-2.74-7.078a8.741 8.741 0 0 1-.415-.056c.14.017.279.036.415.056 2.67.297 5.568-.628 6.383-3.364.246-.828.624-5.79.624-6.478 0-.69-.139-1.861-.902-2.206-.659-.298-1.664-.62-4.3 1.24C16.046 4.748 13.087 8.687 12 10.8Z"/></symbol>
+  <symbol id="i-x" viewBox="0 0 24 24"><path d="M18.901 1.153h3.68l-8.04 9.19L24 22.846h-7.406l-5.8-7.584-6.638 7.584H.474l8.6-9.83L0 1.154h7.594l5.243 6.932ZM17.61 20.644h2.039L6.486 3.24H4.298Z"/></symbol>
+  <symbol id="i-reddit" viewBox="0 0 24 24"><g fill="none" stroke="currentColor" stroke-width="1.8" stroke-linecap="round" stroke-linejoin="round"><ellipse cx="12" cy="14.5" rx="8.5" ry="6"/><path d="M12 8.5l1.3-5.3 4.2 1"/><circle cx="19" cy="4.4" r="1.5"/><circle cx="3.9" cy="10.4" r="1.7"/><circle cx="20.1" cy="10.4" r="1.7"/><path d="M8.8 17.2c2 1.3 4.4 1.3 6.4 0"/></g><circle cx="9" cy="13.6" r="1.25"/><circle cx="15" cy="13.6" r="1.25"/></symbol>
 </svg>
 
 <header class="nav">
@@ -34,6 +38,7 @@
       <a href="./" aria-current="page" data-wide>Blog</a>
       <span class="nav-icons">
         <a class="icon-link" href="https://github.com/popkern-dev/popkern" aria-label="popkern on GitHub"><svg><use href="#i-github"/></svg></a>
+        <a class="icon-link" href="https://discord.gg/38p9xBBwff" aria-label="popkern on Discord"><svg><use href="#i-discord"/></svg></a>
       </span>
       <a class="nav-cta" href="../live/">Try it now!</a>
     </nav>
@@ -71,6 +76,7 @@
   <div class="container">
     <div class="footer-bottom" style="margin-top:0;border-top:0;padding-top:0">
       <span>© <span data-year>2026</span> popkern contributors · AGPL-3.0-only with a user-script exception</span>
+      <span class="footer-social"><a class="icon-link" href="https://github.com/popkern-dev/popkern" aria-label="popkern on GitHub"><svg><use href="#i-github"/></svg></a><a class="icon-link" href="https://discord.gg/38p9xBBwff" aria-label="popkern on Discord"><svg><use href="#i-discord"/></svg></a><a class="icon-link" href="https://www.reddit.com/user/popkerndev" aria-label="popkern on Reddit"><svg><use href="#i-reddit"/></svg></a><a class="icon-link" href="https://bsky.app/profile/popkerndev.bsky.social" aria-label="popkern on Bluesky"><svg><use href="#i-bluesky"/></svg></a><a class="icon-link" href="https://x.com/popkerndev" aria-label="popkern on X"><svg><use href="#i-x"/></svg></a></span>
       <span class="spacer"></span>
       <a href="../">popkern.dev</a>
     </div>

diff --git a/web/lander/assets/css/site.css b/web/lander/assets/css/site.css
@@ -95,7 +95,9 @@ img { max-width: 100%; display: block; }
 a { color: var(--accent); text-decoration-thickness: 1px; text-underline-offset: 3px; }
 a:hover { color: var(--text); }
 
-h1, h2, h3, h4 { line-height: 1.15; letter-spacing: -.022em; margin: 0; font-weight: 650; }
+h1, h2, h3, h4 { line-height: 1.15; letter-spacing: -.022em; margin: 0; font-weight: 650; text-wrap: balance; }
+/* Paragraphs never end on a lone word. */
+p, li, figcaption { text-wrap: pretty; }
 
 :focus-visible {
   outline: 2px solid var(--brand);
@@ -259,6 +261,9 @@ section { padding-block: clamp(64px, 9vw, 116px); }
   letter-spacing: -.035em; font-weight: 690;
   margin-bottom: 22px;
 }
+/* The headline breaks between phrases only ("kernel for", "everyone
+   who", "makes things."): a free wrap stranded "for" at 320 px and
+   "things." from 414 to 480 px. */
 .hero h1 .grad {
   background: linear-gradient(96deg, var(--brand) 8%, var(--blue) 96%);
   -webkit-background-clip: text; background-clip: text; color: transparent;
@@ -480,6 +485,12 @@ p code, li code, td code {
   font-size: .84rem; color: var(--text-faint);
 }
 .footer-bottom .spacer { margin-left: auto; }
+/* Where to find popkern: one icon per place, in the footer's colours
+   (the nav's icon links are dark-bar colours). */
+.footer-social { display: flex; flex-wrap: wrap; gap: 2px; }
+.footer-about .footer-social { margin: 14px 0 0 -8px; }
+.footer-social .icon-link { color: var(--text-dim); }
+.footer-social .icon-link:hover { color: var(--text); background: var(--surface); }
 
 /* ---- Placeholder link marker (unset socials) --------------------------- */
 a[href^="#TODO"] { position: relative; }

diff --git a/web/lander/404.html b/web/lander/404.html
@@ -6,7 +6,7 @@
 <title>Not found - popkern</title>
 <meta name="robots" content="noindex">
 <link rel="icon" href="/assets/img/favicon.svg?v=3c8cd3cc" type="image/svg+xml">
-<link rel="stylesheet" href="/assets/css/site.css?v=f511bd3d">
+<link rel="stylesheet" href="/assets/css/site.css?v=269cefcb">
 <style>
   .nf { min-height: 76vh; display: grid; place-items: center; text-align: center; }
   .nf .code { font-family: var(--mono); font-size: clamp(3.5rem, 12vw, 6rem); color: var(--brand); letter-spacing: -.04em; line-height: 1; }

diff --git a/web/lander/README.md b/web/lander/README.md
@@ -32,11 +32,12 @@ tools/                      logo, social-card and asset-stamp generators (not de
 
 ## Before announcing
 
-1. **Fill in the social links.** Search the tree for `#TODO-`:
-   `#TODO-x`, `#TODO-bluesky`, `#TODO-discord`. Unset links render with a small
-   `?` marker so they are obvious in the page; that marker comes from the
-   `a[href^="#TODO"]` rule in `assets/css/site.css` and disappears by itself
-   once the hrefs are real.
+1. **Social links are set** (2026-10-24): GitHub, Discord, Reddit, Bluesky
+   and X, in every page's nav (GitHub, Discord) and footer (all five), the
+   homepage's Community column and "Come and break it" card, and the help
+   lists on the support page and launch post. Any link still spelled
+   `#TODO-…` renders with a small `?` marker (the `a[href^="#TODO"]` rule in
+   `assets/css/site.css`).
 2. **Set the domain.** `popkern.dev` is assumed in the canonical tag, the
    `og:url`/`og:image` tags, `sitemap.xml`, `robots.txt` and `blog/feed.xml`.
    Change it everywhere if the real domain differs:
